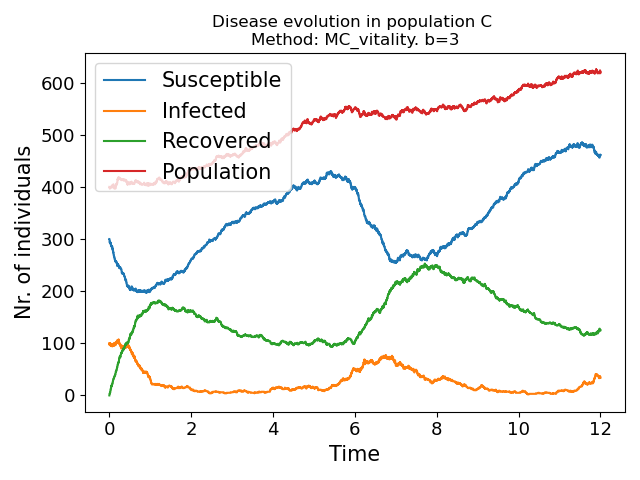
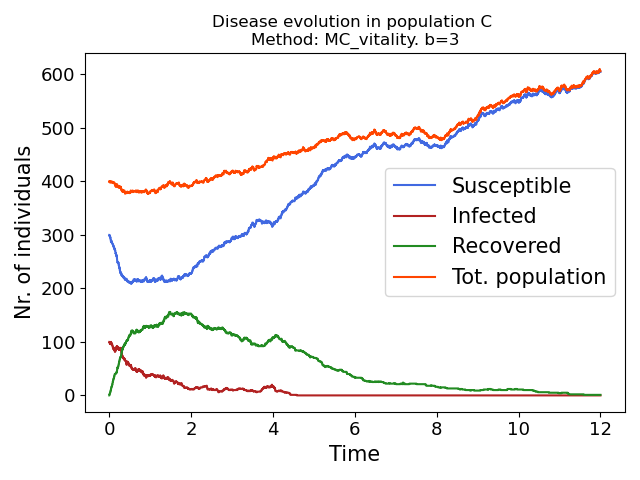
Color update

diff --git a/Project5/main.py b/Project5/main.py
@@ -72,10 +72,12 @@ def DataFrameSolution(S_arr, I_arr, R_arr):
                                                    'font-size' : '13pt'})\
                                .set_properties(subset = pd.IndexSlice[['I'], :],\
                                                **{'color': 'red',\
-                                                  'border-color': 'white'})\
+                                                  'border-color': 'white',
+                                                  'font-size' : '13pt'})\
                                .set_properties(subset = pd.IndexSlice[['R'], :],\
                                                **{'color': 'green',\
-                                                  'border-color': 'white'})\
+                                                  'border-color': 'white',
+                                                  'font-size' : '13pt'})\
                                .set_table_styles(magnify())
     return dataframe
 
@@ -118,12 +120,11 @@ if __name__ == '__main__':
         for i in range(len(b_list)):
             S, I, _, time  = RK4.RK4(a, b_list[i], c, S_0, I_0, R_0, N, T, n, fx=RK4.fS, fy=RK4.fI)
             R  = N - S - I
-            #print(R)#; sys.exit()
             P.plot_SIR(time, b_list[i], S, I, R, T, pop[i], method='RK4', save_plot=True)
-            #plt.show()
 
     if exB:
 
+        # For mean/std table
         S_ABCD = []
         I_ABCD = []
         R_ABCD = []
@@ -136,12 +137,19 @@ if __name__ == '__main__':
             time = np.linspace(0, T, len(S))
             P.plot_SIR(time, b_list[i], S, I, R, T, pop[i], method='MC', save_plot=True)
 
-            #index = print(np.where( (time - 6)) <error)
+            # Finding the equilibrium, decided for each population by looking
+            # at the plots. For population A-C: T=6, for D: T=10
+            if pop[i] == 'D':
+                equ = int((len(S)/12)*10)
+            else:
+                equ = int((len(S)/12)*6)
 
-            # setting '15' as time of equilibrium
-            S_ABCD.append('%.2f +/- %.2f' %(S[15], np.std(S)))
-            I_ABCD.append('%.2f +/- %.2f' %(I[15], np.std(I)))
-            R_ABCD.append('%.2f +/- %.2f' %(R[15], np.std(R)))
+            # Making a Pandas ddataframe with mean and std values for all
+            # populations after equilibrium
+
+            S_ABCD.append('%.2f +/- %.2f' %(np.mean(S[equ:]), np.std(S)))
+            I_ABCD.append('%.2f +/- %.2f' %(np.mean(I[equ:]), np.std(I)))
+            R_ABCD.append('%.2f +/- %.2f' %(np.mean(R[equ:]), np.std(R)))
 
         dataframe = DataFrameSolution(S_ABCD, I_ABCD, R_ABCD)
 
@@ -157,13 +165,13 @@ if __name__ == '__main__':
         n   = int(1e4) #nr of points for RK4 run
         for i in range(len(b_list)):
             S, I, R, time  = RK4.RK4(a, b_list[i], c, S_0, I_0, R_0, N, T, n, fx=RK4.fS, fy=RK4.fI, fz=RK4.fR, Vital=True)
-            P.plot_SIR(time, b_list[i], S, I, R, T, pop[i], method='RK4_vitality', save_plot=True)
+            P.plot_SIR(time, b_list[i], S, I, R, T, pop[i], method='RK4_vitality', save_plot=True, tot_pop=True)
 
         # Make MC simulation for 4 populations, with b=[bA, bB, bC, bD]
         for i in range(len(b_list)):
             S, I, R = MC.MC(a, b_list[i], c, S_0, I_0, R_0, N, T, vitality=True)
             time = np.linspace(0, T, len(S))
-            P.plot_SIR(time, b_list[i], S, I, R, T, pop[i], method='MC_vitality', save_plot=True)
+            P.plot_SIR(time, b_list[i], S, I, R, T, pop[i], method='MC_vitality', save_plot=True, tot_pop=True)
 
 
     if exD:
@@ -176,14 +184,14 @@ if __name__ == '__main__':
         n   = int(1e4) #nr of points for RK4 run
         for i in range(len(b_list)):
             S, I, R, time  = RK4.RK4(a, b_list[i], c, S_0, I_0, R_0, N, T, n, fx=RK4.fS, fy=RK4.fI, fz=RK4.fR, Vital=True, seasonal=True)
-            P.plot_SIR(time, b_list[i], S, I, R, T, pop[i], method='RK4_vitality_seasonal', save_plot=True)
+            P.plot_SIR(time, b_list[i], S, I, R, T, pop[i], method='RK4_vitality_seasonal', save_plot=True, tot_pop=True)
 
 
         # Make MC simulation for 4 populations, with b=[bA, bB, bC, bD]
         for i in range(len(b_list)):
             S, I, R = MC.MC(a, b_list[i], c, S_0, I_0, R_0, N, T, vitality=True, seasonal=True)
             time = np.linspace(0, T, len(S))
-            P.plot_SIR(time, b_list[i], S, I, R, T, pop[i], method='MC_vitality_season', save_plot=True)
+            P.plot_SIR(time, b_list[i], S, I, R, T, pop[i], method='MC_vitality_season', save_plot=True, tot_pop=True)
 
     if exE:
 

diff --git a/Project5/plots.py b/Project5/plots.py
@@ -1,13 +1,39 @@
-
 import matplotlib.pyplot as plt
 
-def plot_SIR(time, b, S, I, R, T, pop, method, save_plot=False):
+"""
+Colors
+black               | '#000000'
+dimgray             | '#696969'
+
+Green:
+green               | '#008000'
+limegreen           | '#32CD32'
+forestgreen         | '#228B22'
+
+
+Red:
+red                 | '#FF0000'
+darkred             | '#8B0000'
+orangered           | '#FF4500'
+firebrick           | '#B22222'
+
+Blue/Purple
+midnightblue        | '#191970'
+mediumblue          | '#0000CD'
+royalblue           | '#4169E1'
+purple              | '#800080'
+indigo              | '#4b0082'
+darkslateblue       | '#483D8B'
+"""
+
+def plot_SIR(time, b, S, I, R, T, pop, method, save_plot=False, tot_pop=False):
 
     plt.figure()
-    plt.plot(time, S, label="Susceptible")
-    plt.plot(time, I, label="Infected")
-    plt.plot(time, R, label="Recovered")
-    plt.plot(time, (S+I+R), label="Population")
+    plt.plot(time, S, label="Susceptible", color='#4169E1') # Blue/Purple
+    plt.plot(time, I, label="Infected", color='#B22222')    # Red
+    plt.plot(time, R, label="Recovered", color='#228B22')   # Green
+    if tot_pop:
+        plt.plot(time, (S+I+R), label="Tot. population", color='#FF4500') # '#4b0082'
     plt.legend(fontsize=15)
     plt.title('Disease evolution in population %s \nMethod: %s. b=%g' %(pop, method, b))
     plt.xlabel("Time", fontsize=15)
